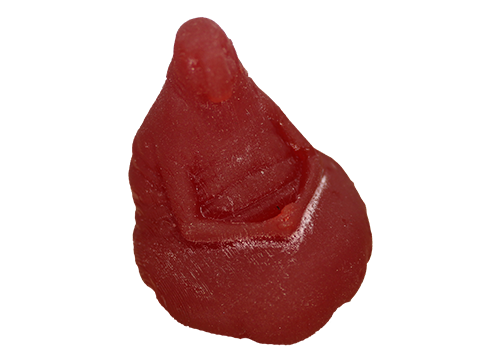
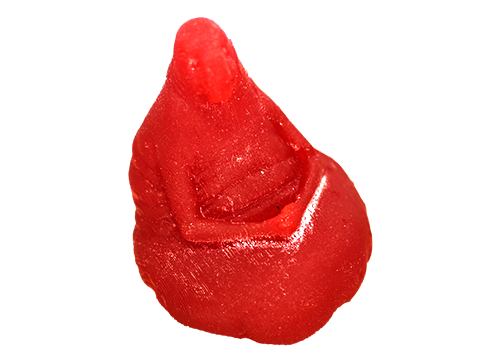
Правки раздела "галерея"
1. Добавлена миниатюра"канибал"
2. Изменена яркость миниатюры "Ждун" (превью)

Changed region(s): [[0.24, 0.0304, 0.75, 0.9724]]

diff --git a/index.html b/index.html
@@ -238,12 +238,27 @@
                 </div>
     				  </div>
       			</div><!--конец модального окна-->
+
             <div class="md-modal md-effect-14" id="modal-2">
               <div class="md-content">
                 <button class="md-close">X</button>
                 <p>Миниатюра "Ждун"</p>
                 <p>Размеры: 4см х 4см х 5см</p>
                 <iframe class="modal_content" src="3d_jdun.htm"></iframe>
+                <div class="rotate">
+                  <div class="rotate-left"></div>
+                  <div class="rotate-content">360 &deg</div>
+                  <div class="rotate-right"></div>
+                </div>
+              </div>
+            </div><!--конец модального окна-->
+
+            <div class="md-modal md-effect-14" id="modal-3">
+              <div class="md-content">
+                <button class="md-close">X</button>
+                <p>Миниатюра "Канибал"</p>
+                <p>Размеры: 3см х 2см х 5см</p>
+                <iframe class="modal_content" src="3d_canibal.htm"></iframe>
                 <div class="rotate">
                   <div class="rotate-left"></div>
                   <div class="rotate-content">360 &deg</div>
@@ -268,7 +283,7 @@
               <div class="cols col-4 collums">
                 <figure class="cell">
                   <a href="#gallery" class="md-trigger" data-modal="modal-2">
-                    <img class="gallery_preview" src="img/jdun.png" alt="predator" >
+                    <img class="gallery_preview" src="img/jdun.png" alt="jdun" >
                   </a>
                 </figure>
                 <!--
@@ -280,7 +295,7 @@
               <div class="cols col-4 collums">
                 <figure class="cell">
                   <a href="#gallery" class="md-trigger" data-modal="modal-3">
-                    <img class="gallery_preview" src="img/ring.png" alt="predator" >
+                    <img class="gallery_preview" src="img/canibal.png" alt="canibal" >
                   </a>
                 </figure>
                 <!--

diff --git a/3d_canibal.htm b/3d_canibal.htm
@@ -1,0 +1,31 @@
+<script type="text/javascript" src="http://ajax.googleapis.com/ajax/libs/jquery/1.3/jquery.min.js"> </script>
+<script type="text/javascript" src="js/jquery-beono-globus.js"></script>
+
+<style>
+
+.beonoGlobus {
+ position: relative;
+ overflow: hidden;
+ cursor: pointer;
+ width: 100%;
+}
+
+img{
+  width: 1900%;
+}
+
+</style>
+
+<div class="beonoGlobus">
+  <img alt="photo" src="img/canibal_frame.jpg">
+</div>
+
+<script type="text/javascript">
+// Set frames count and get last object
+var obGlobus = $(".beonoGlobus").beonoGlobus({ framesCount: 19, api: "all"});
+
+// Set auto rotation mode
+obGlobus.setRotationMode("auto");
+obGlobus.setRotationSpeed(50);
+obGlobus.rotateLeft();
+</script>
